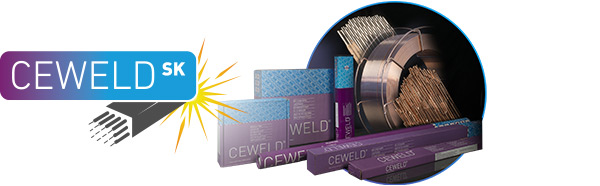
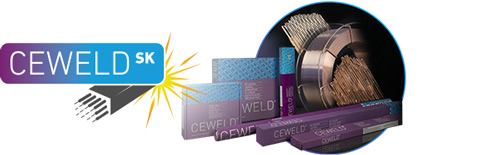
Sum

diff --git a/docs/10.20/ceweld/signatura/index.html b/docs/10.20/ceweld/signatura/index.html
@@ -35,7 +35,7 @@ Vivamus ac tortor non ligula placerat rutrum. Nunc non elementum libero. Integer
 <br><br>
 <span style="font-family:'Helvetica Neue', Helvetica, Arial, sans-serif; font-size:12pt; color:#595959;font-weight:200">S pozdravom / Best Regards</span><br><br>
 <span style="font-family:'Helvetica Neue', Helvetica, Arial, sans-serif; font-size:16pt; color:#595959; font-weight:500">Michal Olearnik, CEO</span><br>
-<a href="https://www.ceweld.sk"><img src="img/img.jpg" width="600" height="186" alt=""/></a>
+<a href="https://www.ceweld.sk"><img src="img/img.jpg" width="500" height="155" alt=""/></a>
 <span style="font-family:'Helvetica Neue', Helvetica, Arial, sans-serif; font-size:14pt; color:#595959; font-weight:400"><strong><br>
 CEWELD SK s.r.o.</strong><br>
 Pionierska 428/25, 080 05 Prešov<br>
